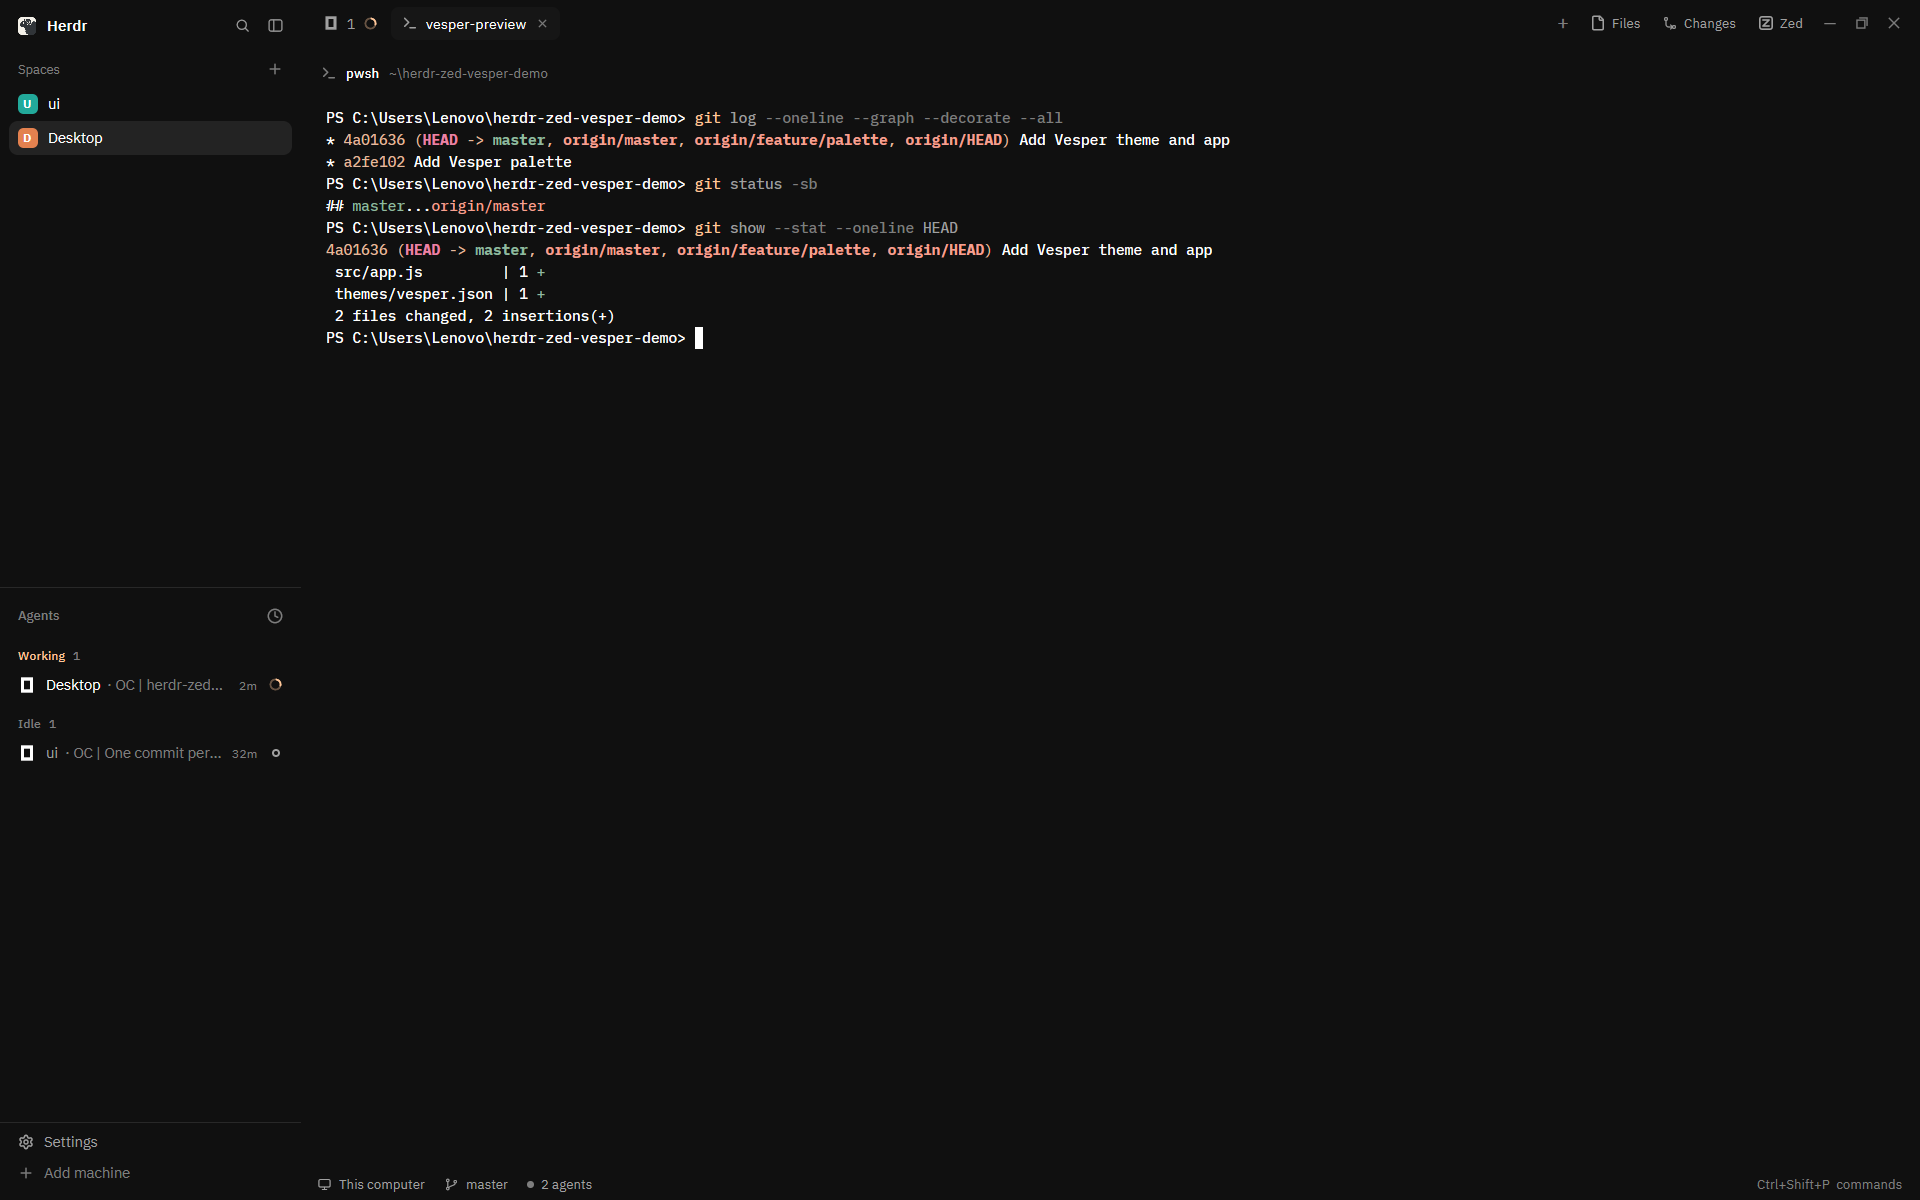
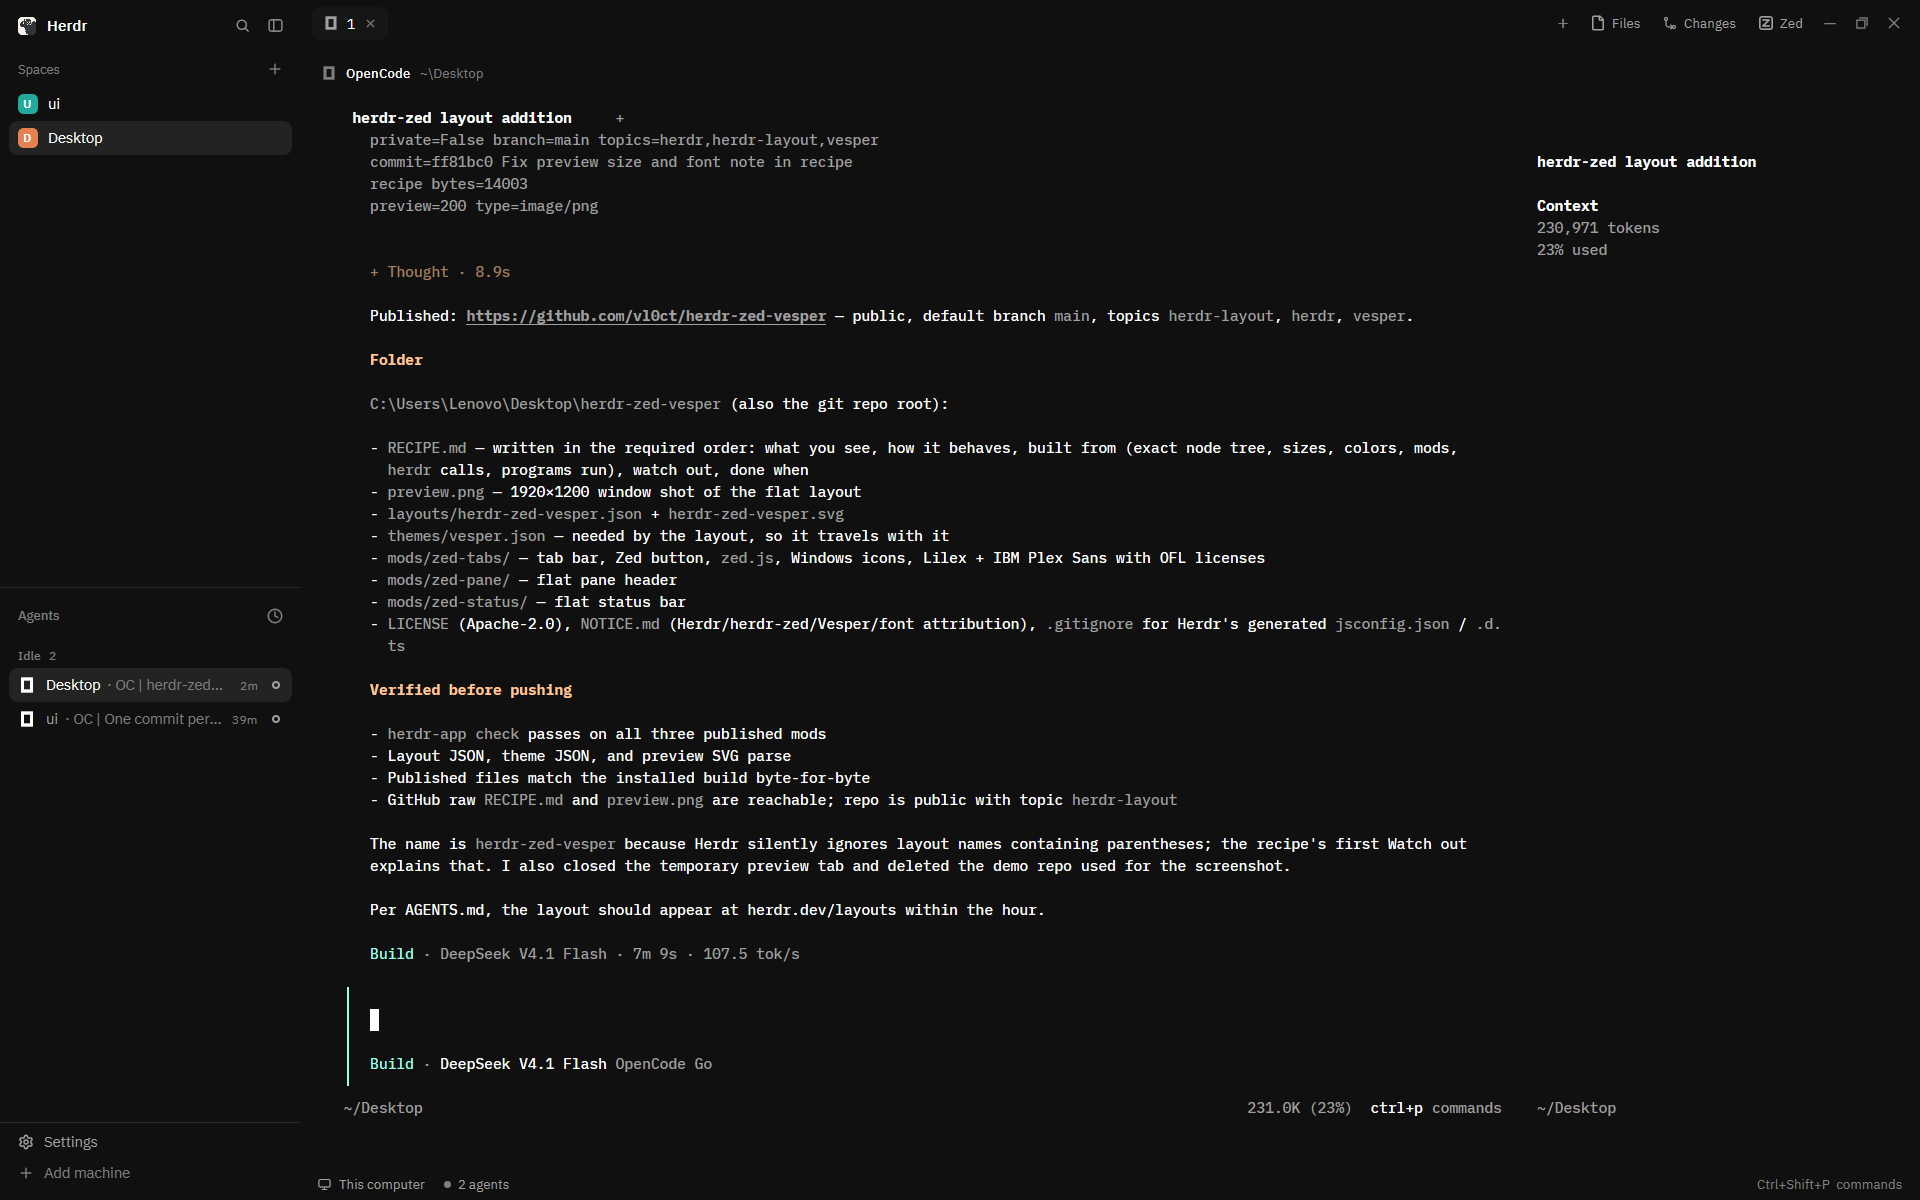
Use the requested preview image and add README

diff --git a/README.md b/README.md
@@ -1,0 +1,15 @@
+![Herdr Zed Vesper](preview.png)
+
+# Herdr Zed Vesper
+
+A flat, Vesper-themed Herdr layout with Lilex and IBM Plex Sans, plus a **Zed** button that opens the focused space in Zed locally or over SSH.
+
+See [RECIPE.md](RECIPE.md) for the full build brief.
+
+## Install
+
+Copy `layouts/`, `themes/` and `mods/` into your Herdr app home, then:
+
+```sh
+herdr-app do layout.switch --name herdr-zed-vesper
+```
